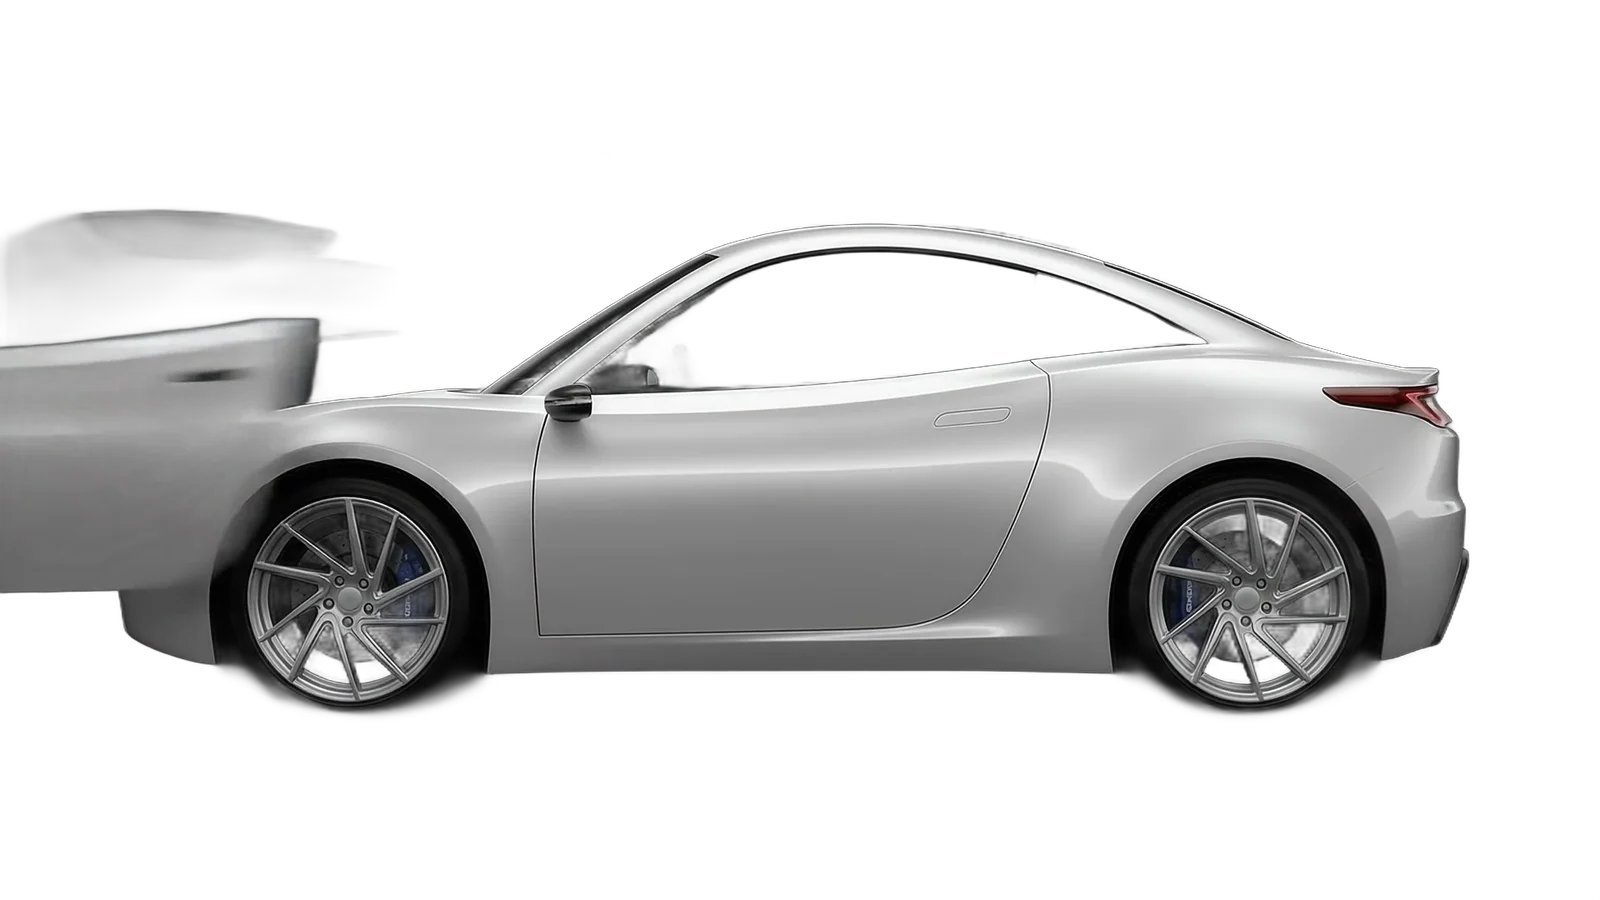
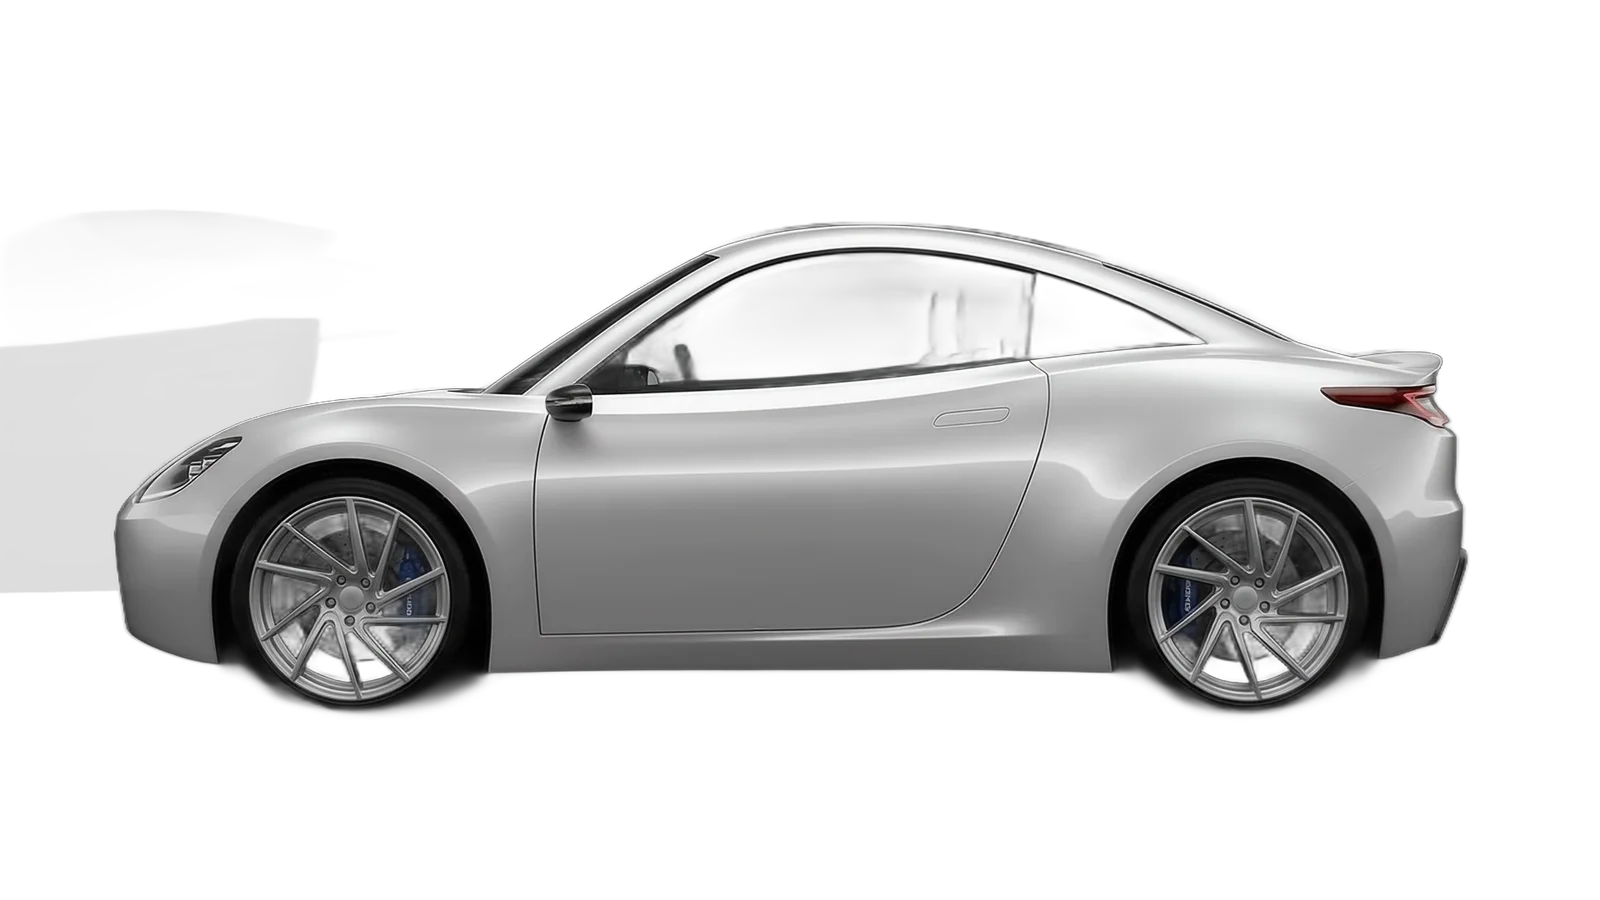
Hero: drop the second door fly-in at the start of the disassembly
The source render lands the door, finishes the roof, then flies a second
door (and the spoiler) in over the first. Cut that stretch and crossfade
the already-finished car into the settled final frames instead, so the
door comes off only once. 148 frames, 18MB.

diff --git a/src/pages/Home.tsx b/src/pages/Home.tsx
@@ -38,7 +38,7 @@ export function Home() {
       <section className="hero" ref={heroRef}>
         <HeroDisassembly
           framesFolder="ev-assembly-v3"
-          frameCount={158}
+          frameCount={148}
           triggerRef={heroRef}
           revealRef={heroActionsRef}
         />
